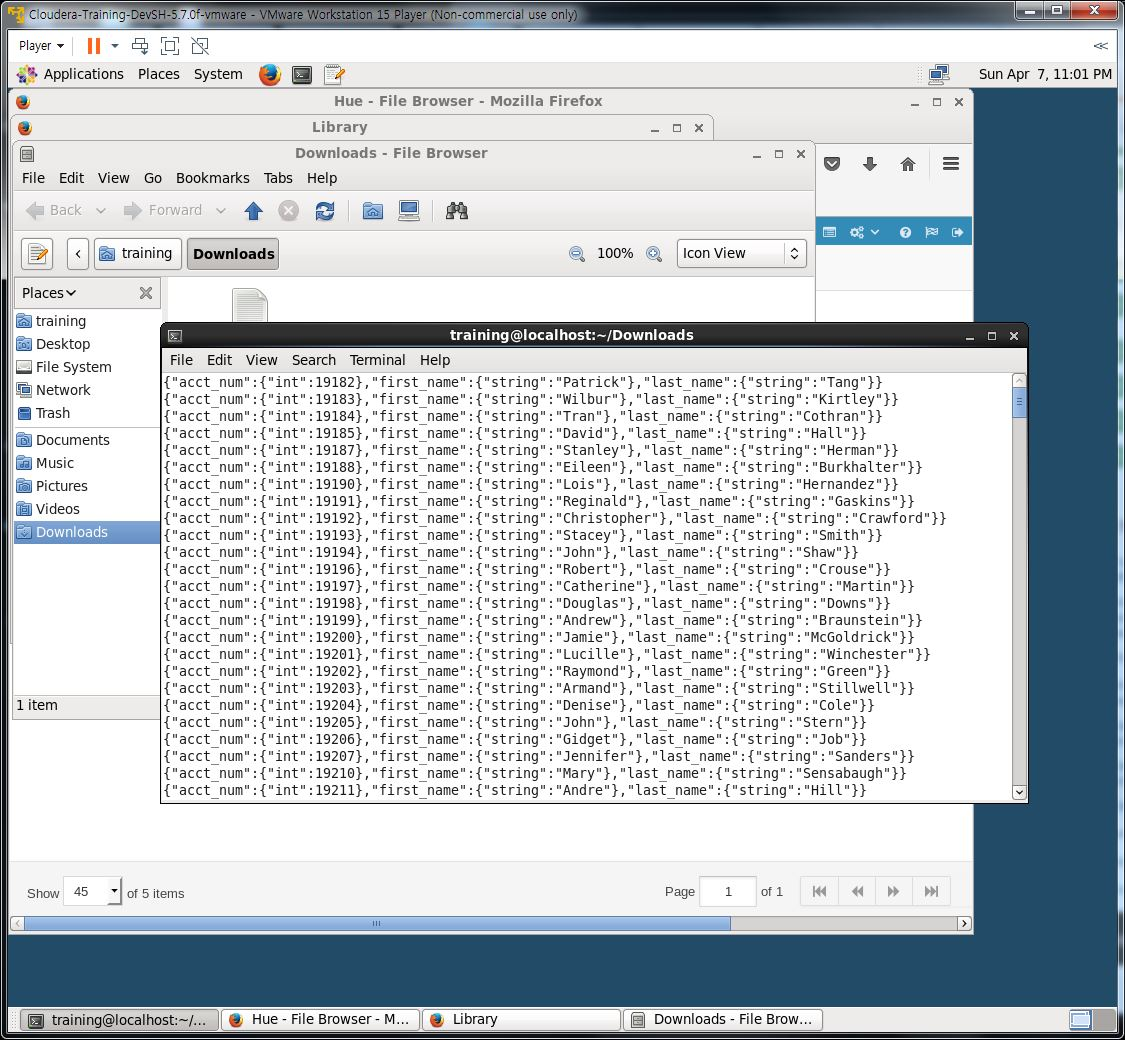
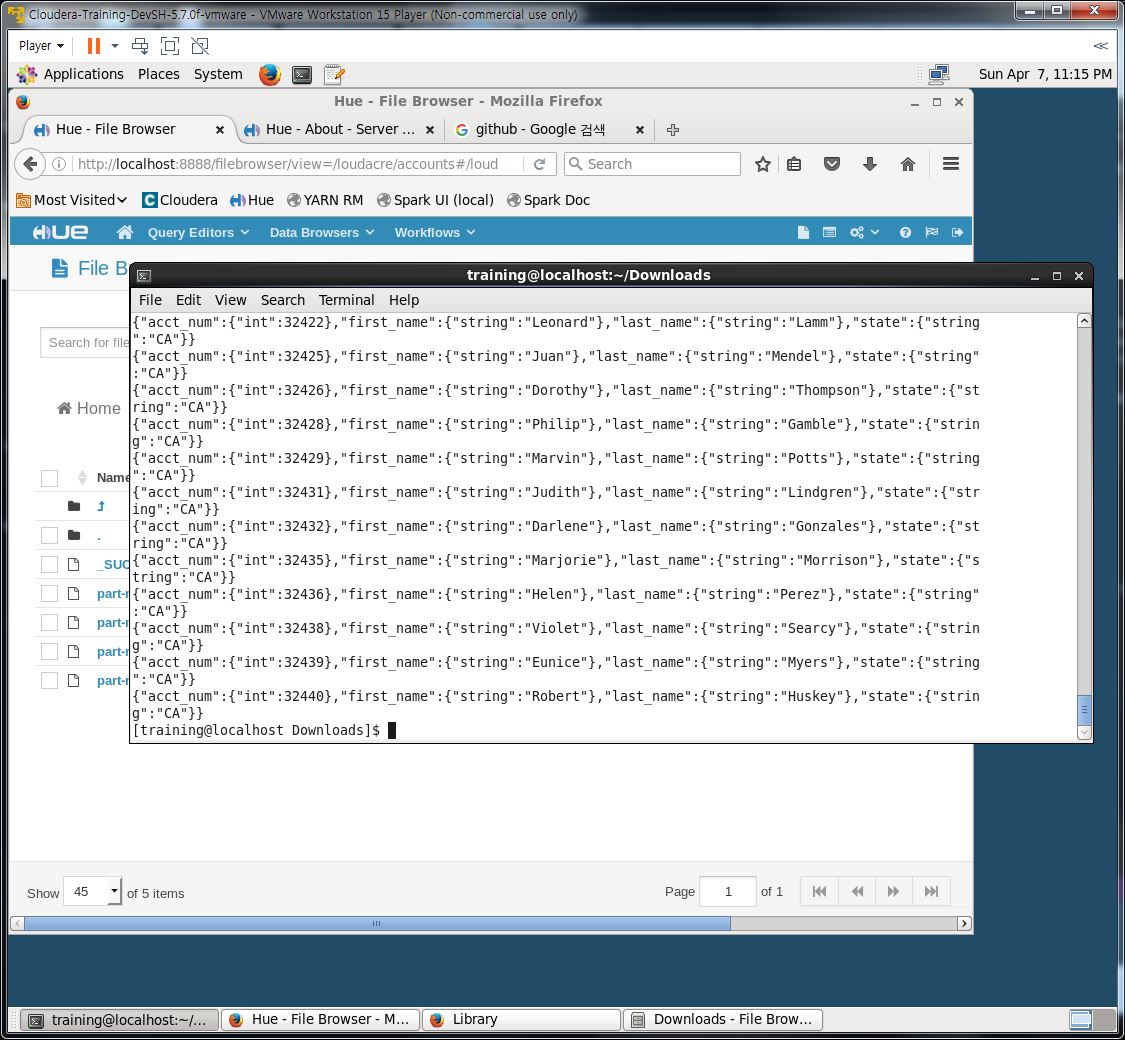
ddd

Changed region(s): [[0.0, 0.0923, 1.0, 0.9231]]

diff --git a/Sqoop/README.md b/Sqoop/README.md
@@ -59,7 +59,7 @@ sqoop import \
 --table accounts \
 --target-dir /loudacre/accounts/CA \
 --null-non-string '\\N' \
---columns "acct_num, first_name, last_name" \
+--columns "acct_num, first_name, last_name, state" \
 --where "state='CA'" \
 --fields-terminated-by "\t" \
 --as-avrodatafile \
@@ -67,7 +67,7 @@ sqoop import \
 </pre>
 
 <pre>
-avro-tools tojson part-m-00000.avro
+avro-tools tojson hdfs://localhost/loudacre/accounts/CA/part-m-00000.avro
 </pre>
 
 ![ex_screenshot](./capture_3.JPG)
